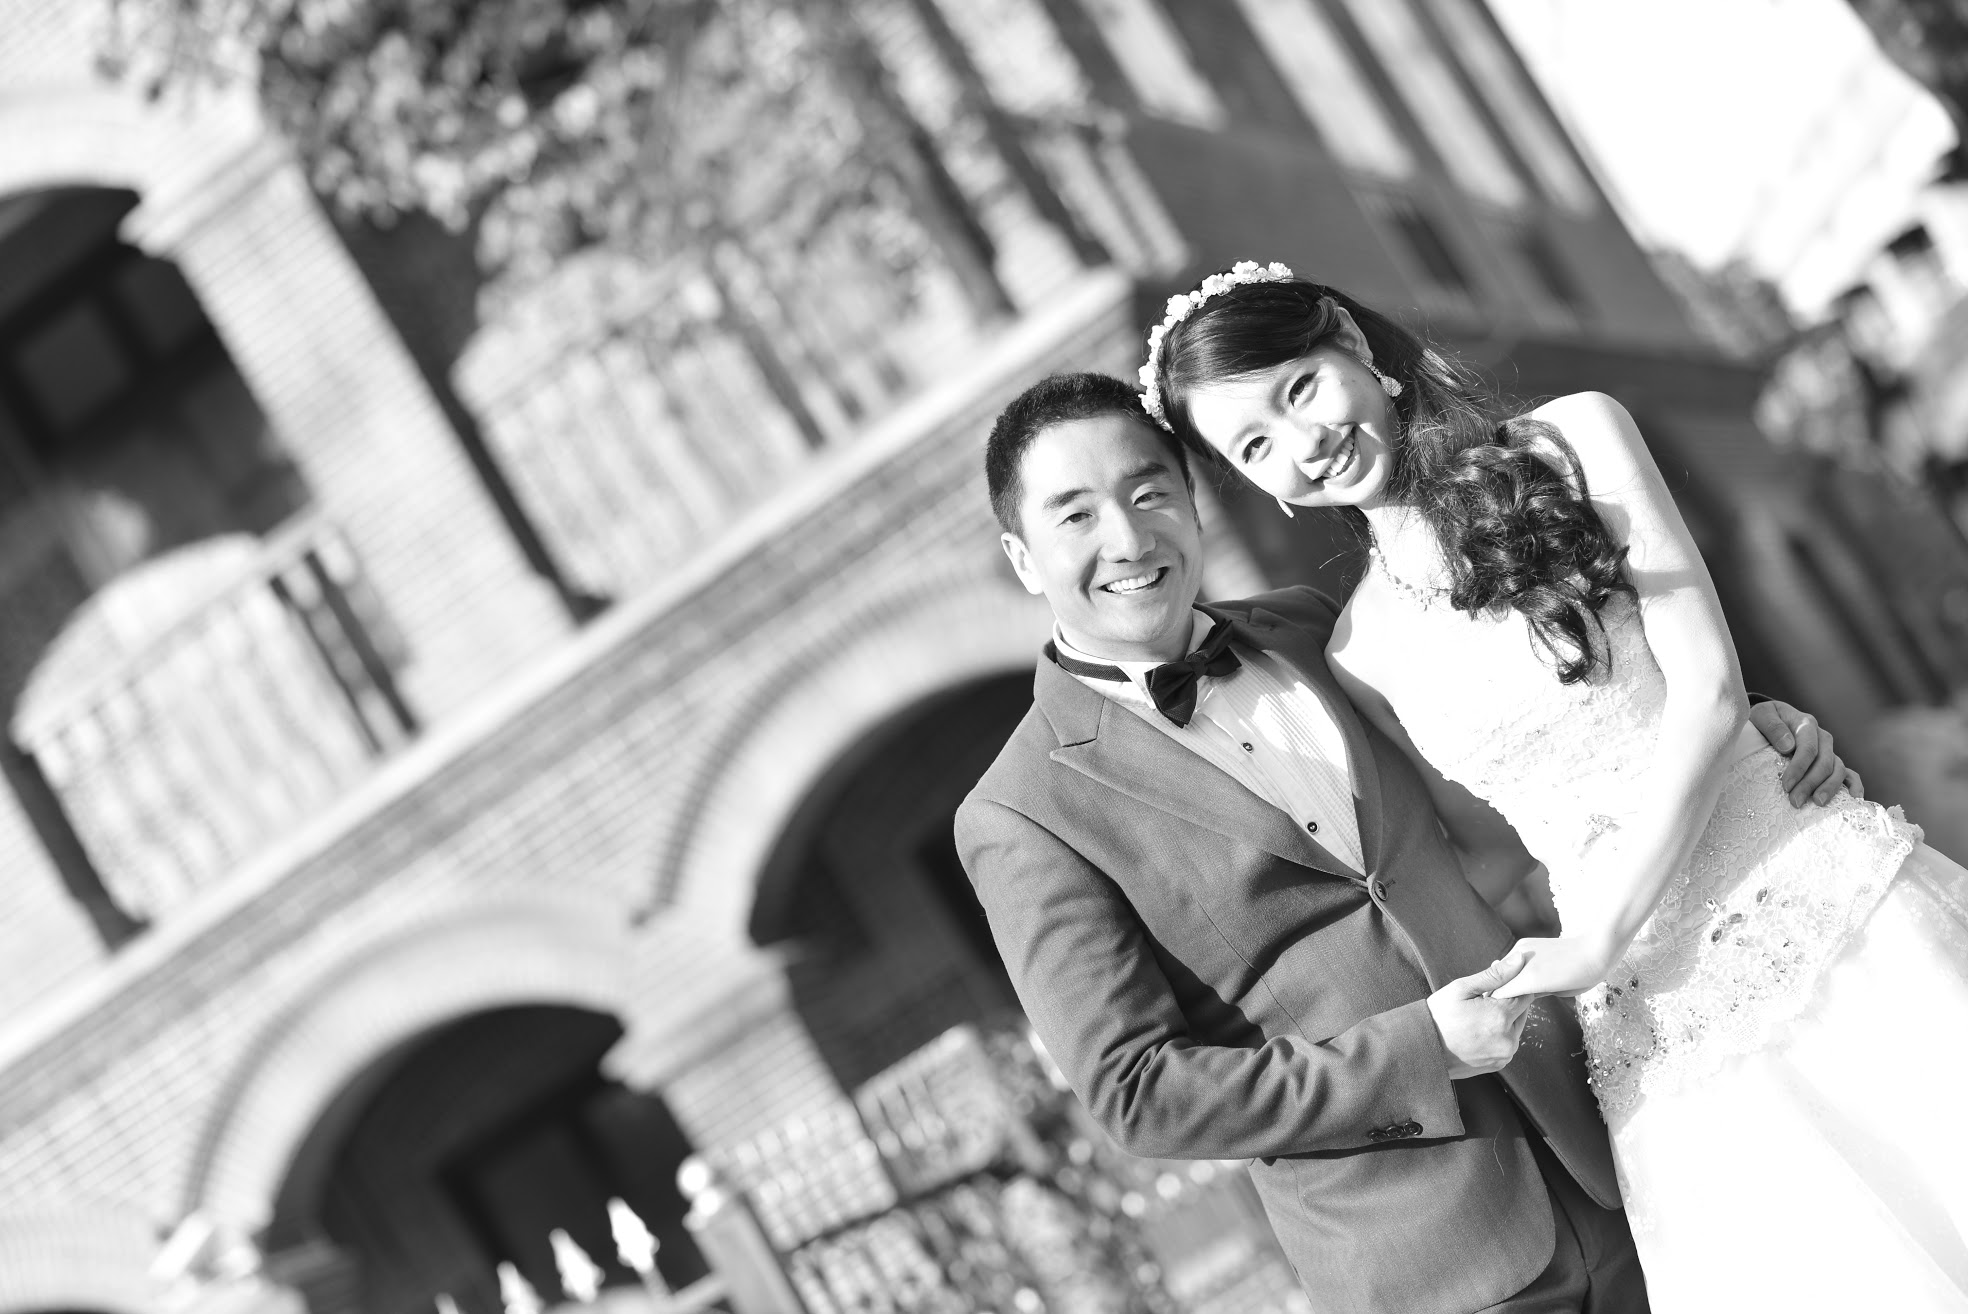
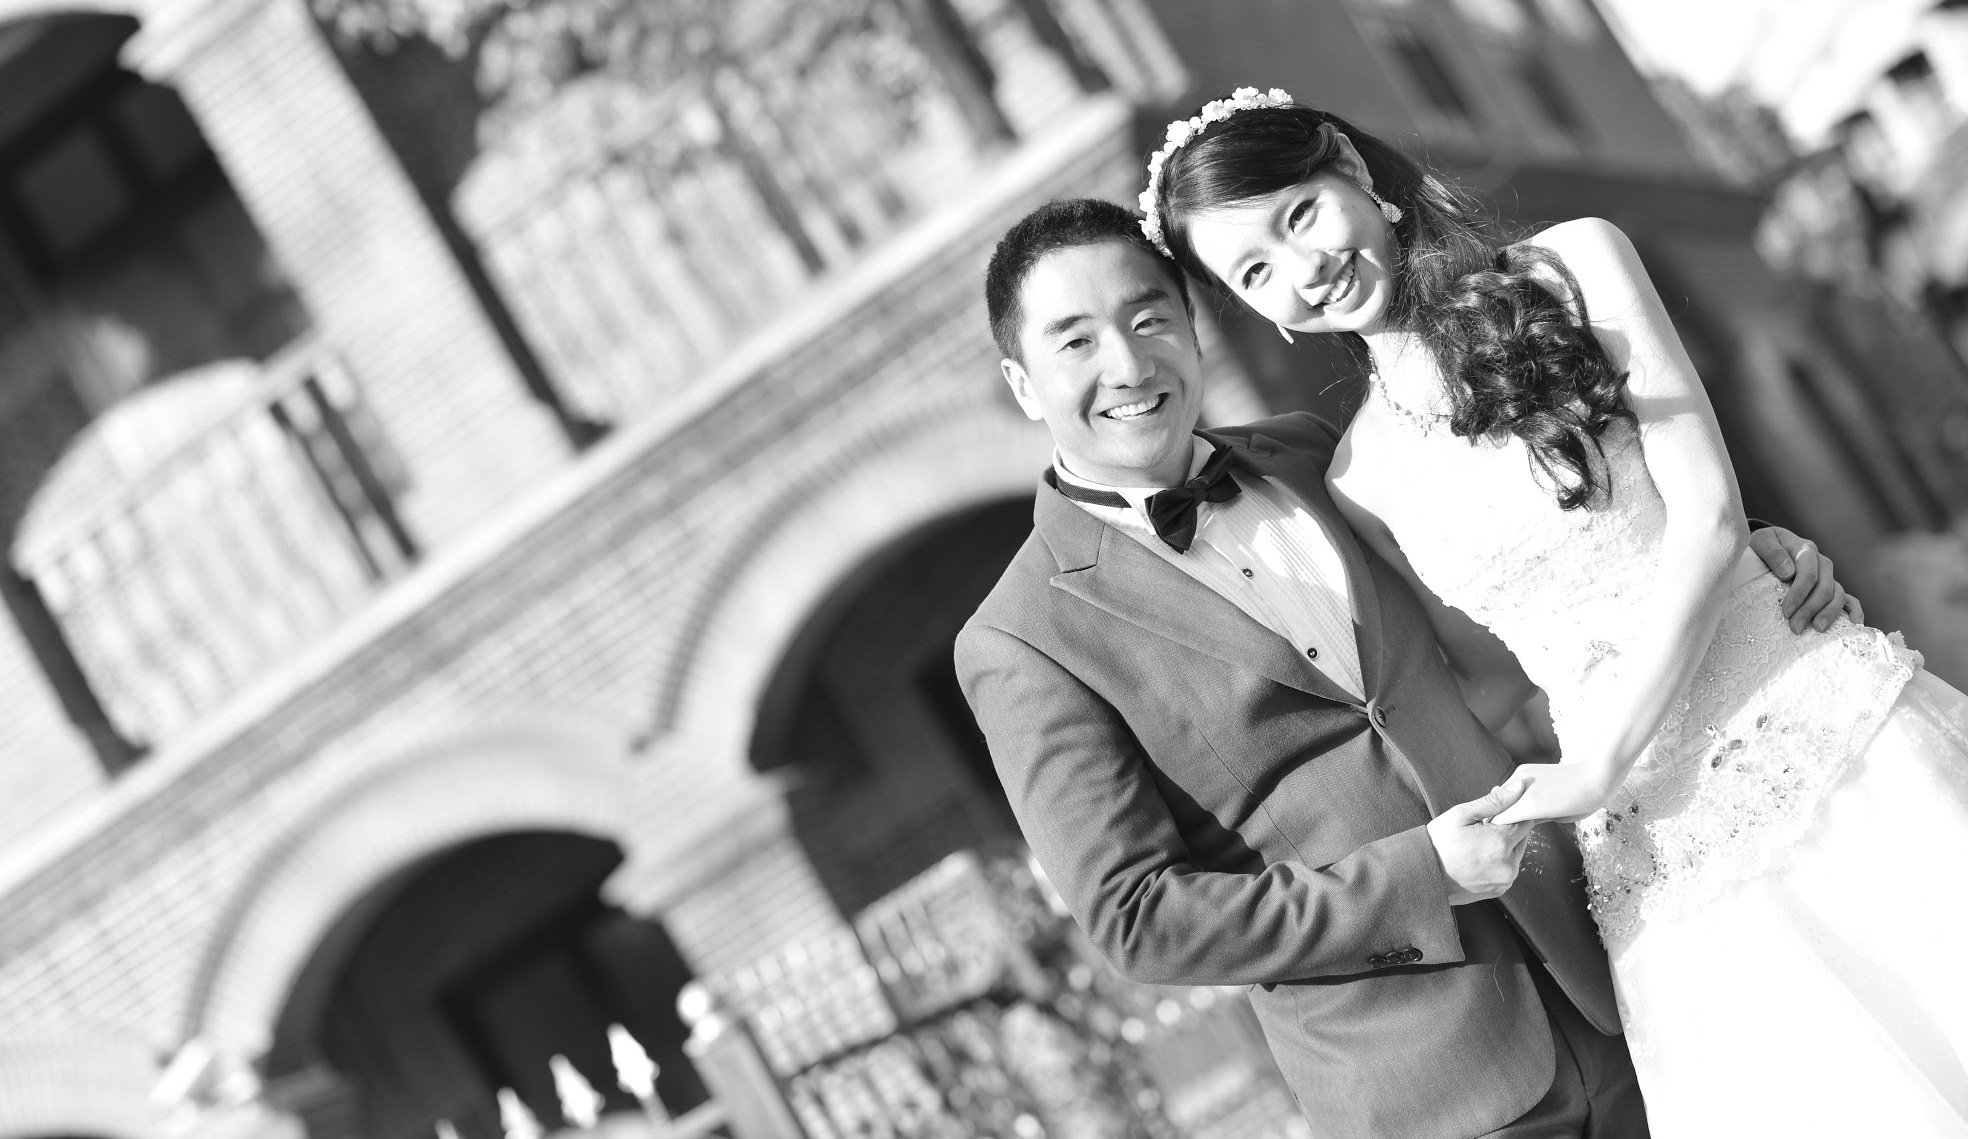
Resized and cropped background images.

diff --git a/app/assets/stylesheets/wedding.scss b/app/assets/stylesheets/wedding.scss
@@ -165,7 +165,7 @@ label p {
 }
 
 #intro {
-  background: image-url("intro_bg-min.JPG") no-repeat center -100px / cover fixed;    
+  background: image-url("intro_bg-min.JPG") no-repeat center center / cover fixed;    
 }
 
 #rsvp-modal,
